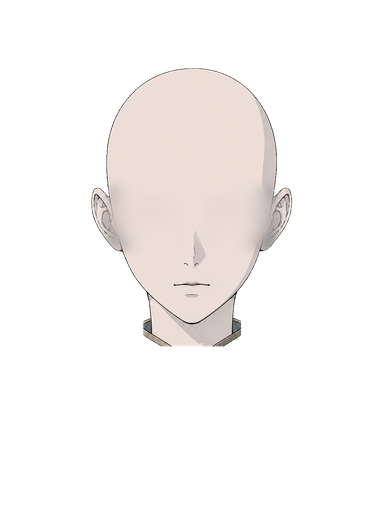
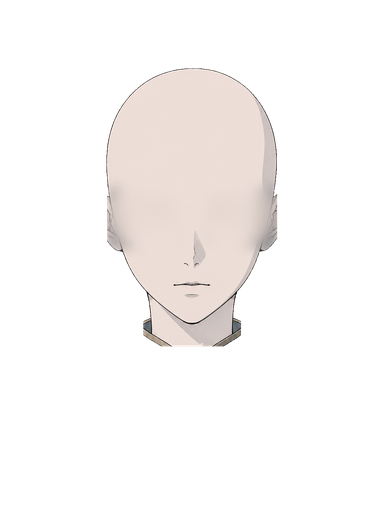
Separate portrait ears and align hair anchors

Changed region(s): [[0.7188, 0.3438, 0.7812, 0.4688], [0.2188, 0.3438, 0.2812, 0.4688]]

diff --git a/portrait-v2-formal-layer-review.html b/portrait-v2-formal-layer-review.html
@@ -5,24 +5,26 @@
   <meta name="viewport" content="width=device-width,initial-scale=1">
   <title>立绘 V2 正式透明部件验收</title>
   <style>
-    :root{color-scheme:dark;font-family:"Microsoft YaHei",system-ui,sans-serif;background:#10141a;color:#eff3f8}*{box-sizing:border-box}body{margin:0;padding:24px;background:radial-gradient(circle at top,#263341,#10141a 55%)}main{max-width:1450px;margin:auto}header{padding:18px 22px;margin-bottom:20px;border:1px solid #586979;border-radius:14px;background:#151d25}h1{margin:0 0 8px}p{margin:4px 0;color:#bbc8d2;line-height:1.6}.grid{display:grid;grid-template-columns:repeat(4,minmax(0,1fr));gap:16px}.card{padding:10px;border:1px solid #4d5c69;border-radius:12px;background:#151c23}.board{background-color:#d5d8de;background-image:linear-gradient(45deg,#f1f2f5 25%,transparent 25%),linear-gradient(-45deg,#f1f2f5 25%,transparent 25%),linear-gradient(45deg,transparent 75%,#f1f2f5 75%),linear-gradient(-45deg,transparent 75%,#f1f2f5 75%);background-size:24px 24px;background-position:0 0,0 12px,12px -12px,-12px 0}.card img{display:block;width:100%;aspect-ratio:1085/1450;object-fit:contain;border:1px solid #73808b;border-radius:8px}.card h2{font-size:17px;margin:9px 0 3px}.card small{color:#9eafbd}@media(max-width:950px){.grid{grid-template-columns:repeat(2,1fr)}}@media(max-width:560px){.grid{grid-template-columns:1fr}}
+    :root{color-scheme:dark;font-family:"Microsoft YaHei",system-ui,sans-serif;background:#10141a;color:#eff3f8}*{box-sizing:border-box}body{margin:0;padding:24px;background:radial-gradient(circle at top,#263341,#10141a 55%)}main{max-width:1700px;margin:auto}header{padding:18px 22px;margin-bottom:20px;border:1px solid #586979;border-radius:14px;background:#151d25}h1{margin:0 0 8px}p{margin:4px 0;color:#bbc8d2;line-height:1.6}.grid{display:grid;grid-template-columns:repeat(5,minmax(0,1fr));gap:16px}.card{padding:10px;border:1px solid #4d5c69;border-radius:12px;background:#151c23}.board{background-color:#d5d8de;background-image:linear-gradient(45deg,#f1f2f5 25%,transparent 25%),linear-gradient(-45deg,#f1f2f5 25%,transparent 25%),linear-gradient(45deg,transparent 75%,#f1f2f5 75%),linear-gradient(-45deg,transparent 75%,#f1f2f5 75%);background-size:24px 24px;background-position:0 0,0 12px,12px -12px,-12px 0}.card img{display:block;width:100%;aspect-ratio:1085/1450;object-fit:contain;border:1px solid #73808b;border-radius:8px}.card h2{font-size:17px;margin:9px 0 3px}.card small{color:#9eafbd}@media(max-width:1200px){.grid{grid-template-columns:repeat(3,1fr)}}@media(max-width:760px){.grid{grid-template-columns:repeat(2,1fr)}}@media(max-width:500px){.grid{grid-template-columns:1fr}}
   </style>
 </head>
 <body><main>
-  <header><h1>正式透明部件审查</h1><p>所有脸型、眼型与发型使用相同画布和锚点。棋盘格用于检查透明边缘、错位、残留皮肤与跨模块投影。</p></header>
+  <header><h1>正式透明部件审查</h1><p>脸、眼睛、头发和耳朵使用相同画布与锚点。耳朵在最终合成时覆盖于头发之上，避免耳廓被头发边缘切断。</p></header>
   <h2>组合 01 · 尖脸 / 圆瞳 / 中分长直发</h2>
   <section class="grid">
-    <article class="card board"><img src="docs/art/portrait-v2-master-review/pipeline-e-layers/alpha-master/faces-sharp.png" alt="尖脸透明层"><h2>脸型 · sharp</h2><small>由确认母版确定性提取，保留鼻口耳颈结构</small></article>
-    <article class="card board"><img src="docs/art/portrait-v2-master-review/pipeline-e-layers/alpha-master/eyes-round.png" alt="圆瞳透明层"><h2>眼型 · round</h2><small>固定眼部窗口，保留完整眼睛细节</small></article>
-    <article class="card board"><img src="docs/art/portrait-v2-master-review/pipeline-e-layers/alpha-master/hair-long.png" alt="中分长直发透明层"><h2>发型 · long</h2><small>按发色所有权提取，无面部残留</small></article>
-    <article class="card board"><img src="docs/art/portrait-v2-master-review/pipeline-e-layers/04-layered-alpha-composite.png" alt="三层合成验收"><h2>三层合成</h2><small>检查眼位、发际线、耳部开口和整体对齐</small></article>
+    <article class="card board"><img src="docs/art/portrait-v2-master-review/pipeline-e-layers/alpha-master/faces-sharp.png" alt="尖脸透明层"><h2>脸型 · sharp</h2><small>不再拥有耳朵像素</small></article>
+    <article class="card board"><img src="docs/art/portrait-v2-master-review/pipeline-e-layers/alpha-master/ears-sharp.png" alt="尖脸耳朵透明层"><h2>耳朵 · sharp</h2><small>耳廓和耳根独立，最终覆盖发型</small></article>
+    <article class="card board"><img src="docs/art/portrait-v2-master-review/pipeline-e-layers/alpha-master/eyes-round.png" alt="圆瞳透明层"><h2>眼型 · round</h2><small>保留完整眼睛细节</small></article>
+    <article class="card board"><img src="docs/art/portrait-v2-master-review/pipeline-e-layers/alpha-master/hair-long.png" alt="中分长直发透明层"><h2>发型 · long</h2><small>统一冠部与耳根锚点</small></article>
+    <article class="card board"><img src="docs/art/portrait-v2-master-review/pipeline-e-layers/04-layered-alpha-composite.png" alt="首套四层合成验收"><h2>四层合成</h2><small>脸 → 眼睛 → 头发 → 耳朵</small></article>
   </section>
   <h2>组合 02 · 椭圆脸 / 杏仁眼 / 中分短波波头</h2>
   <section class="grid">
-    <article class="card board"><img src="docs/art/portrait-v2-master-review/pipeline-f-oval-almond-bob/alpha-master/faces-oval.png" alt="椭圆脸透明层"><h2>脸型 · oval</h2><small>由第二套确认母版确定性提取，保留鼻口耳颈结构</small></article>
-    <article class="card board"><img src="docs/art/portrait-v2-master-review/pipeline-f-oval-almond-bob/alpha-master/eyes-almond.png" alt="杏仁眼透明层"><h2>眼型 · almond</h2><small>仅提取眼部内容，完整保留睫毛、虹膜和高光</small></article>
-    <article class="card board"><img src="docs/art/portrait-v2-master-review/pipeline-f-oval-almond-bob/alpha-master/hair-bob.png" alt="中分短波波头透明层"><h2>发型 · bob</h2><small>按统一锚点注册，无面部残留或跨层投影</small></article>
-    <article class="card board"><img src="docs/art/portrait-v2-master-review/pipeline-f-oval-almond-bob/04-oval-almond-bob-alpha-composite.png" alt="第二套三层合成验收"><h2>三层合成</h2><small>检查眼位、发根、耳部开口和短发轮廓</small></article>
+    <article class="card board"><img src="docs/art/portrait-v2-master-review/pipeline-f-oval-almond-bob/alpha-master/faces-oval.png" alt="椭圆脸透明层"><h2>脸型 · oval</h2><small>不再拥有耳朵像素</small></article>
+    <article class="card board"><img src="docs/art/portrait-v2-master-review/pipeline-f-oval-almond-bob/alpha-master/ears-oval.png" alt="椭圆脸耳朵透明层"><h2>耳朵 · oval</h2><small>耳廓与耳根独立，避免遮挡断裂</small></article>
+    <article class="card board"><img src="docs/art/portrait-v2-master-review/pipeline-f-oval-almond-bob/alpha-master/eyes-almond.png" alt="杏仁眼透明层"><h2>眼型 · almond</h2><small>保留睫毛、虹膜与高光</small></article>
+    <article class="card board"><img src="docs/art/portrait-v2-master-review/pipeline-f-oval-almond-bob/alpha-master/hair-bob.png" alt="中分短波波头透明层"><h2>发型 · bob</h2><small>冠部上移并扩大到统一头骨锚点</small></article>
+    <article class="card board"><img src="docs/art/portrait-v2-master-review/pipeline-f-oval-almond-bob/04-oval-almond-bob-alpha-composite.png" alt="第二套四层合成验收"><h2>四层合成</h2><small>检查发根、耳廓和脸部贴合</small></article>
   </section>
 </main></body>
 </html>

diff --git a/src/portrait-v2.js b/src/portrait-v2.js
@@ -25,7 +25,7 @@ export const PORTRAIT_V2_SPEC = Object.freeze({
   }),
   layers: Object.freeze([
     'backdrop', 'raceBack', 'hairBack', 'body', 'faceBase', 'eyes',
-    'hairSide', 'fringe', 'raceFront', 'accessory', 'finish',
+    'hairSide', 'fringe', 'earsFront', 'raceFront', 'accessory', 'finish',
   ]),
   recolor: Object.freeze(['skin', 'iris', 'hair', 'clothA', 'clothB', 'accent']),
 });
@@ -489,9 +489,10 @@ function drawLayeredPortrait(a) {
   ));
   if (!approved) return null;
   const face = requestLayer(`assets/portrait-v2-formal/faces/${faceId}.png`);
+  const ears = requestLayer(`assets/portrait-v2-formal/ears/${faceId}.png`);
   const eyes = requestLayer(`assets/portrait-v2-formal/eyes/${eyeId}.png`);
   const hair = requestLayer(`assets/portrait-v2-formal/hair/${hairId}.png`);
-  if (!face || !eyes || !hair) return null;
+  if (!face || !ears || !eyes || !hair) return null;
   const pal = palette(a), canvas = document.createElement('canvas'); canvas.width = W; canvas.height = H;
   const ctx = canvas.getContext('2d');
   if (!ctx) return null;
@@ -500,6 +501,7 @@ function drawLayeredPortrait(a) {
   ctx.drawImage(tintLayer(face, 'skin', pal.skin), 0, 0);
   ctx.drawImage(tintLayer(eyes, 'iris', pal.iris), 0, 0);
   ctx.drawImage(tintLayer(hair, 'hair', pal.hair), 0, 0);
+  ctx.drawImage(tintLayer(ears, 'skin', pal.skin), 0, 0);
   drawRaceFront(ctx, safeIndex(a.race, 18), pal);
   drawAccessory(ctx, a, pal);
   drawFinish(ctx);

diff --git a/docs/art/portrait-v2-master-review/pipeline-f-oval-almond-bob/README.md b/docs/art/portrait-v2-master-review/pipeline-f-oval-almond-bob/README.md
@@ -1,17 +1,13 @@
-# Pipeline F · 鹅蛋脸、杏眼与短波波头
+# Pipeline F · Oval face, almond eyes and bob hair
 
-第二套正式位图组合：
+Approved formal combination: `oval + almond + part + bob`.
 
-- 脸型：`oval`（鹅蛋脸）
-- 眼型：`almond`（杏眼）
-- 刘海：`part`（中分）
-- 发型：`bob`（短波波头）
+All masters use the registered `1085×1450` canvas. Runtime layers are deterministically extracted and resized to `384×512`.
 
-三阶段母版统一为 `1085×1450`：裸头母版、正式杏眼、完整短波波头角色。透明图层通过确定性构建脚本提取并缩放为 `384×512`，不直接使用生成式抠图。
+## Ownership and registration
 
-## 验收边界
-
-- 鹅蛋脸只改变面颊、下颌与下巴轮廓，不移动耳朵、眼位、鼻口和颈肩锚点。
-- 杏眼保留上下眼线、成组睫毛、湿润线、虹膜纹理、瞳孔与多点高光，不携带皮肤阴影。
-- 波波头完整露出双眼和大部分耳朵，不投影到面部，发尾收在下颌附近。
-- 只有 `oval + almond + part + bob` 精确组合进入正式白名单，禁止与未验收部件混搭。
+- The face layer owns the skull, facial outline, nose, mouth and neck, but no ear pixels.
+- Ears are isolated in `ears/oval.png` and composited after hair.
+- The eye layer keeps lashes, iris texture and highlights without skin shadow.
+- The bob crown uses the same top clearance as the approved long hairstyle while retaining its jaw-length endpoint.
+- Only the exact approved combination may activate these raster layers.

diff --git a/docs/art/portrait-v2-master-review/pipeline-e-layers/README.md b/docs/art/portrait-v2-master-review/pipeline-e-layers/README.md
@@ -27,3 +27,9 @@
 ```powershell
 python scripts/build-portrait-v2-formal-layers.py
 ```
+
+## Ear ownership update
+
+- Ears are extracted from the approved face master into `ears/sharp.png`.
+- The face layer no longer owns ear pixels.
+- Runtime order is face, eyes, hair, then ears, so the helix remains readable when hair passes behind it.
